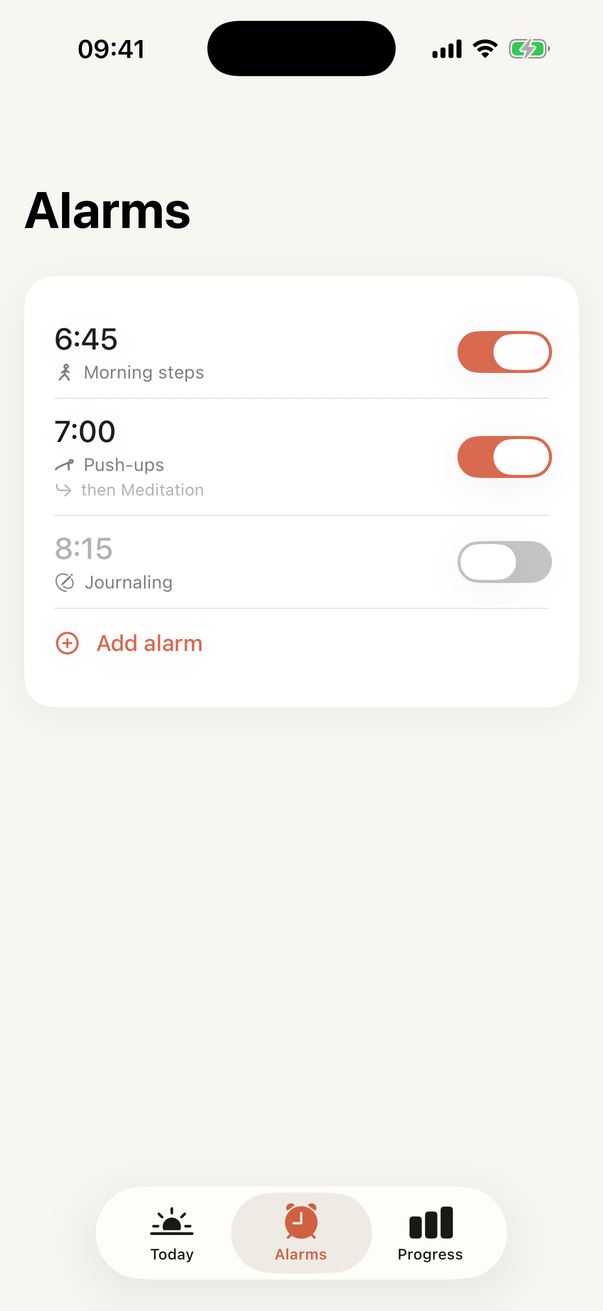
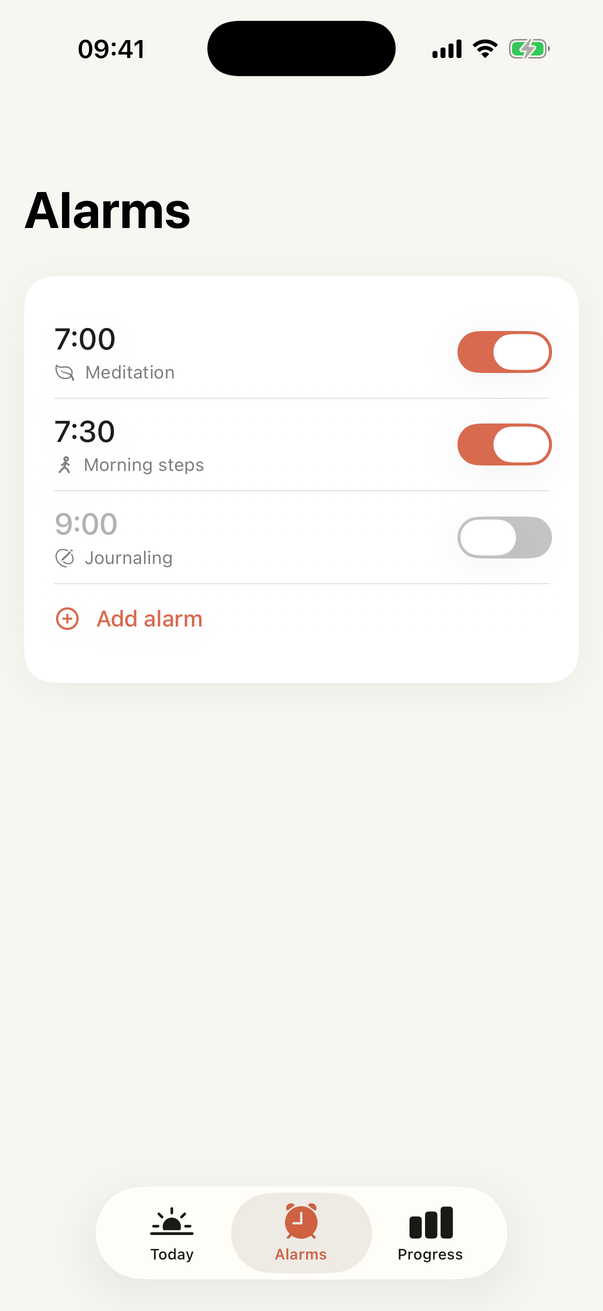
Make the app the hero, and set the site in the serif
The home page led with a photograph of a man doing press-ups that
was AI generated: wrong hands, waxy face, warped floorboards. It was
the largest paint on the page and the first thing anyone judging the
app saw, on a product whose entire proposition is that it checks you
really did the thing. It is gone, along with the push-ups screenshot
that showed the same man inside the app's camera view.

Nothing replaces it. The app is the better hero, which is what the
new store screenshots demonstrated.

Headlines move to New York, the serif the app already uses for its
daily line, and the paper gets a light source instead of one flat
fill. The home copy now leads with the morning it buys you rather
than the threat.

Today, Alarms and Progress are recaptured from the current build, so
the site stops advertising a version that no longer exists.

Changed region(s): [[0.0896, 0.2441, 0.3284, 0.5187], [0.7463, 0.3051, 0.9254, 0.4577]]

diff --git a/site.css b/site.css
@@ -12,12 +12,20 @@
     --on-clay: #FFFFFF;
   }
 
+  /* Headlines are set in New York, the serif the app uses for its daily
+     line. Bold centred sans is what every other productivity app looks
+     like; the serif is the fastest way to stop looking generated. */
+  :root { --serif: "New York", "Iowan Old Style", Palatino, "Palatino Linotype", Georgia, serif; }
+
   * { margin: 0; padding: 0; box-sizing: border-box; }
   html { scroll-behavior: smooth; color-scheme: light; }
   @media (prefers-reduced-motion: reduce) { html { scroll-behavior: auto; } * { transition: none !important; animation: none !important; } }
   body {
     font-family: -apple-system, BlinkMacSystemFont, "SF Pro Text", "Segoe UI", Roboto, Helvetica, Arial, sans-serif;
-    background: var(--paper); color: var(--ink);
+    background:
+      radial-gradient(1100px 760px at 86% -6%, #FBE9DF 0%, rgba(251,233,223,0) 62%),
+      linear-gradient(176deg, #FDFBF7 0%, var(--paper) 46%, #F1ECE3 100%);
+    background-attachment: fixed; color: var(--ink);
     -webkit-font-smoothing: antialiased; line-height: 1.55; overflow-x: hidden;
   }
   img { max-width: 100%; height: auto; display: block; }
@@ -27,9 +35,13 @@
   .wrap { max-width: 1080px; margin: 0 auto; padding: 0 24px; }
   .prose { max-width: 640px; }
   .centre { text-align: center; margin-inline: auto; }
-  h1, h2, h3 { letter-spacing: -.02em; line-height: 1.08; text-wrap: balance; }
-  h2 { font-size: clamp(30px, 4.4vw, 42px); font-weight: 750; }
+  h1, h2 { font-family: var(--serif); font-weight: 500; letter-spacing: -.022em;
+           line-height: 1.06; text-wrap: balance; }
+  h3 { letter-spacing: -.02em; line-height: 1.12; text-wrap: balance; }
+  h2 { font-size: clamp(31px, 4.6vw, 45px); }
   h3 { font-size: 19px; font-weight: 700; }
+  /* The accent lands on one phrase per headline, never two. */
+  h1 em, h2 em { font-style: normal; color: var(--clay); }
   p { color: var(--ink-2); }
   .lede { font-size: clamp(17px, 2.1vw, 19.5px); }
   .eyebrow {
@@ -72,15 +84,13 @@
     background: radial-gradient(closest-side, rgba(201, 97, 61, .16), transparent 70%); pointer-events: none;
   }
   .hero-grid { display: grid; grid-template-columns: 1.05fr .95fr; gap: 56px; align-items: center; position: relative; }
-  h1 { font-size: clamp(42px, 6.6vw, 72px); font-weight: 780; letter-spacing: -.03em; line-height: 1.0; }
+  h1 { font-size: clamp(42px, 6.6vw, 72px); font-weight: 500; letter-spacing: -.028em; line-height: 1.03; }
   h1 em { font-style: normal; color: var(--clay); }
   .hero .lede { margin-top: 22px; max-width: 500px; }
   .ctas { display: flex; flex-wrap: wrap; gap: 12px; margin-top: 30px; }
   .terms-line { margin-top: 18px; font-size: 13.5px; color: var(--ink-3); }
-  .hero-art { position: relative; width: min(440px, 100%); margin-left: auto; padding: 0 0 36px 44px; }
-  .hero-art .photo { border-radius: 30px; overflow: hidden; aspect-ratio: 4 / 5; box-shadow: 0 20px 50px -20px rgba(28,27,25,.3); }
-  .hero-art .photo img { width: 100%; height: 100%; object-fit: cover; }
-  .hero-art .phone { position: absolute; left: 0; bottom: 0; width: 44%; }
+  .hero-art { position: relative; width: min(360px, 100%); margin-left: auto; }
+  .hero-art .phone { width: 100%; }
   @media (max-width: 860px) {
     .hero { padding-top: 44px; }
     .hero-grid { grid-template-columns: 1fr; text-align: center; gap: 40px; }

diff --git a/index.html b/index.html
@@ -173,8 +173,8 @@
   <div class="wrap hero-grid">
     <div>
       <div class="eyebrow">Out now on the App Store</div>
-      <h1>Wake up and <em>actually stay up.</em></h1>
-      <p class="lede">First Step is an alarm that won't stop until you've taken the first step of the day: twenty push-ups, a walk, ten minutes of quiet, a page of your journal. Then it stops, and the day is yours.</p>
+      <h1>Take the <em>first step</em>.<br>Every morning.</h1>
+      <p class="lede">First Step is an iPhone alarm that helps you start the day with one small thing: ten minutes of quiet, a walk, twenty push-ups, a page of your journal. It doesn't stop until you've begun, and then the day is yours.</p>
       <div class="ctas">
         <a class="pill" href="https://apps.apple.com/gb/app/first-step-no-snooze-alarm/id6789765925"><svg viewBox="0 0 24 24" width="17" height="17" fill="currentColor" aria-hidden="true" style="flex:0 0 auto"><path d="M16.4 12.7c0-2 1.6-2.9 1.7-3-0.9-1.4-2.4-1.5-2.9-1.6-1.2-0.1-2.4 0.7-3 0.7-0.6 0-1.6-0.7-2.6-0.7-1.3 0-2.6 0.8-3.2 2-1.4 2.4-0.4 6 1 8 0.7 1 1.5 2 2.5 2 1 0 1.4-0.6 2.6-0.6 1.2 0 1.5 0.6 2.6 0.6 1.1 0 1.8-1 2.4-1.9 0.8-1.1 1.1-2.2 1.1-2.2-0.1 0-2.2-0.8-2.2-3.3zM14.5 6.3c0.5-0.7 0.9-1.6 0.8-2.6-0.8 0-1.8 0.5-2.4 1.2-0.5 0.6-1 1.6-0.8 2.5 0.9 0.1 1.8-0.4 2.4-1.1z"/></svg> Download on the App Store</a>
         <a class="pill quiet" href="#how">See how it works</a>
@@ -182,8 +182,7 @@
       <p class="terms-line">One week free, then £5.99 a month or £39.99 a year. iPhone, iOS 26.</p>
     </div>
     <div class="hero-art">
-      <div class="photo"><img src="img/hero-photo.jpg" width="960" height="1200" alt="A man doing push-ups on a bedroom floor in morning light, bed unmade behind him" fetchpriority="high"></div>
-      <div class="phone"><div class="frame"><img src="img/today.png" width="603" height="1311" alt="The First Step Today screen: a nine-day streak, tomorrow's 7:00 alarm with push-ups then meditation" fetchpriority="high"></div></div>
+      <div class="phone"><div class="frame"><img src="img/today.png" width="603" height="1311" alt="The First Step Today screen: a nine-day streak and tomorrow's 7:00 alarm, set to meditation" fetchpriority="high"></div></div>
     </div>
   </div>
 </header>

diff --git a/alarm-that-makes-you-exercise.html b/alarm-that-makes-you-exercise.html
@@ -59,7 +59,7 @@
     "operatingSystem": "iOS 26",
     "applicationCategory": "LifestyleApplication"
    },
-   "dateModified": "2026-09-29",
+   "dateModified": "2026-10-06",
    "datePublished": "2026-09-10"
   },
   {
@@ -179,7 +179,7 @@
     <h2>How First Step verifies it</h2>
     <p>For push-ups and squats, First Step uses the front camera as a movement sensor. Prop the phone against a wall or a stack of books so it can see you, and start. The countdown runs only while the camera can see you moving. Pause, and the numbers pause with you.</p>
     <figure>
-      <div class="phone"><div class="frame"><img src="img/pushups.png" width="603" height="1311" alt="A push-ups session in First Step: the countdown at 24 seconds and a live camera view of someone mid push-up" loading="lazy"></div></div>
+      <div class="phone"><div class="frame"><img src="img/steps.png" width="603" height="1311" alt="A morning steps session in First Step: 340 of 500 steps counted, with the phone in a pocket" loading="lazy"></div></div>
       <figcaption>The live view is on screen the whole time, so you always know what the camera can see.</figcaption>
     </figure>
     <p>It is deliberately simple. Each frame is shrunk to a coarse grid of brightness values, compared with the previous one, and thrown away. Nothing is recorded, nothing is uploaded, and there is no account or server on the other end. The app is not recognising your body or counting reps. It is checking one thing: are you in motion?</p>

diff --git a/blog/how-to-stop-procrastinating-in-the-morning.html b/blog/how-to-stop-procrastinating-in-the-morning.html
@@ -54,7 +54,7 @@
    "description": "Mornings are the easiest time to put things off and the research explains why: the task feels worst, the reward feels furthest, and the phone is closest. Five fixes from the procrastination and planning literature, starting with the two-minute rule.",
    "image": "https://firststepalarm.com/img/og/how-to-stop-procrastinating-in-the-morning.png",
    "datePublished": "2026-09-10",
-   "dateModified": "2026-09-29",
+   "dateModified": "2026-10-06",
    "author": {
     "@id": "https://firststepalarm.com/#callum"
    },
@@ -137,7 +137,7 @@
 <div class="wrap">
   <a class="home" href="index.html">&larr; The Morning Journal</a>
   <h1>How to stop procrastinating in the morning: start before you feel ready</h1>
-  <p class="meta">By <a href="index.html#author">Callum Matthews</a> · <time datetime="2026-09-10">10 September 2026</time> · Updated 29 September 2026 · 6 min read</p>
+  <p class="meta">By <a href="index.html#author">Callum Matthews</a> · <time datetime="2026-09-10">10 September 2026</time> · Updated 6 October 2026 · 6 min read</p>
 
   <p class="lede">The snooze button is procrastination in its purest form: a small, pleasant delay of a thing you have already decided to do. Most of what follows the alarm has the same shape. The phone before the shower, the shower before the task, the task after one more coffee. The morning is where procrastination lives, and the research on why is unusually clear.</p>
 

diff --git a/blog/sleep-inertia.html b/blog/sleep-inertia.html
@@ -54,7 +54,7 @@
    "description": "Sleep inertia is the grogginess after waking that impairs memory, reaction time and judgement. How long it lasts, what makes it worse, what the research says actually shortens it, and why it is the real reason you snooze.",
    "image": "https://firststepalarm.com/img/og/sleep-inertia.png",
    "datePublished": "2026-09-10",
-   "dateModified": "2026-09-29",
+   "dateModified": "2026-10-06",
    "author": {
     "@id": "https://firststepalarm.com/#callum"
    },
@@ -137,7 +137,7 @@
 <div class="wrap">
   <a class="home" href="index.html">&larr; The Morning Journal</a>
   <h1>Sleep inertia: why the first ten minutes of the day feel impossible</h1>
-  <p class="meta">By <a href="index.html#author">Callum Matthews</a> · <time datetime="2026-09-10">10 September 2026</time> · Updated 29 September 2026 · 6 min read</p>
+  <p class="meta">By <a href="index.html#author">Callum Matthews</a> · <time datetime="2026-09-10">10 September 2026</time> · Updated 6 October 2026 · 6 min read</p>
 
   <p class="lede">There is a name for the state you are in when you reach for the snooze button. It is not laziness and it is not a character flaw. It is a measurable, well-studied period of impaired brain function called <strong>sleep inertia</strong>, and once you know its shape, most of the standard advice about mornings starts to look like it was written by someone who had never experienced it.</p>
 

diff --git a/blog/new-year-habits-that-last.html b/blog/new-year-habits-that-last.html
@@ -54,7 +54,7 @@
    "description": "About half of New Year's resolutions survive the year, and the ones that do share a shape. The fresh start effect, why approach goals beat avoidance goals, the 66-day rule, and how to build a January habit that outlives February.",
    "image": "https://firststepalarm.com/img/og/new-year-habits-that-last.png",
    "datePublished": "2026-09-10",
-   "dateModified": "2026-09-29",
+   "dateModified": "2026-10-06",
    "author": {
     "@id": "https://firststepalarm.com/#callum"
    },
@@ -137,7 +137,7 @@
 <div class="wrap">
   <a class="home" href="index.html">&larr; The Morning Journal</a>
   <h1>New Year habits that last: how to start in January and still be going in March</h1>
-  <p class="meta">By <a href="index.html#author">Callum Matthews</a> · <time datetime="2026-09-10">10 September 2026</time> · Updated 29 September 2026 · 5 min read</p>
+  <p class="meta">By <a href="index.html#author">Callum Matthews</a> · <time datetime="2026-09-10">10 September 2026</time> · Updated 6 October 2026 · 5 min read</p>
 
   <p class="lede">Every January the same two things are said: that resolutions are pointless because everyone breaks them by February, and that this year is different. The research is kinder than the first claim and more useful than the second. Resolutions work better than their reputation, and the ones that last share a shape you can copy.</p>
 

diff --git a/blog/how-to-wake-up-earlier.html b/blog/how-to-wake-up-earlier.html
@@ -54,7 +54,7 @@
    "description": "Moving your alarm an hour earlier overnight is why it feels terrible. A gradual shift built from the research on body clocks, light and sleep inertia: fifteen minutes at a time, bedtime first, light on waking, weekends held, one mission at the alarm.",
    "image": "https://firststepalarm.com/img/og/how-to-wake-up-earlier.png",
    "datePublished": "2026-09-10",
-   "dateModified": "2026-09-29",
+   "dateModified": "2026-10-06",
    "author": {
     "@id": "https://firststepalarm.com/#callum"
    },
@@ -137,7 +137,7 @@
 <div class="wrap">
   <a class="home" href="index.html">&larr; The Morning Journal</a>
   <h1>How to wake up earlier without feeling terrible: a two-week shift</h1>
-  <p class="meta">By <a href="index.html#author">Callum Matthews</a> · <time datetime="2026-09-10">10 September 2026</time> · Updated 29 September 2026 · 5 min read</p>
+  <p class="meta">By <a href="index.html#author">Callum Matthews</a> · <time datetime="2026-09-10">10 September 2026</time> · Updated 6 October 2026 · 5 min read</p>
 
   <p class="lede">The usual attempt goes like this. Sunday night, alarm moved from 7:30 to 6:00. Monday, terrible. Tuesday, worse. Wednesday, snoozed to 7:15 and the whole thing declared impossible. The plan failed for a reason the research explains precisely: the alarm moved ninety minutes and the body clock moved none.</p>
 

diff --git a/blog/how-to-be-more-productive-in-the-morning.html b/blog/how-to-be-more-productive-in-the-morning.html
@@ -54,7 +54,7 @@
    "description": "Not a list of 27 tips. The research on sleep inertia, time-of-day thinking, planning the night before and morning light, turned into a first ninety minutes you can keep. Includes what to do first and what to leave until later.",
    "image": "https://firststepalarm.com/img/og/how-to-be-more-productive-in-the-morning.png",
    "datePublished": "2026-09-10",
-   "dateModified": "2026-09-29",
+   "dateModified": "2026-10-06",
    "author": {
     "@id": "https://firststepalarm.com/#callum"
    },
@@ -137,7 +137,7 @@
 <div class="wrap">
   <a class="home" href="index.html">&larr; The Morning Journal</a>
   <h1>How to be more productive in the morning: what the research actually supports</h1>
-  <p class="meta">By <a href="index.html#author">Callum Matthews</a> · <time datetime="2026-09-10">10 September 2026</time> · Updated 29 September 2026 · 6 min read</p>
+  <p class="meta">By <a href="index.html#author">Callum Matthews</a> · <time datetime="2026-09-10">10 September 2026</time> · Updated 6 October 2026 · 6 min read</p>
 
   <p class="lede">Most morning productivity advice is a list: twenty-seven things successful people do before 8am. This is not that. It is what the research on sleep, attention and planning actually supports, arranged into a first ninety minutes that a normal person with a job can keep.</p>
 

diff --git a/blog/does-the-5am-club-work.html b/blog/does-the-5am-club-work.html
@@ -54,7 +54,7 @@
    "description": "The 5am Club promises a better life from an earlier alarm. What holds up (the first hour, movement, consistency), what does not (the hour itself), and how to test early rising without wrecking your sleep.",
    "image": "https://firststepalarm.com/img/og/does-the-5am-club-work.png",
    "datePublished": "2026-09-10",
-   "dateModified": "2026-09-29",
+   "dateModified": "2026-10-06",
    "author": {
     "@id": "https://firststepalarm.com/#callum"
    },
@@ -137,7 +137,7 @@
 <div class="wrap">
   <a class="home" href="index.html">&larr; The Morning Journal</a>
   <h1>Does the 5am club work? What the science says about early rising</h1>
-  <p class="meta">By <a href="index.html#author">Callum Matthews</a> · <time datetime="2026-09-10">10 September 2026</time> · Updated 29 September 2026 · 5 min read</p>
+  <p class="meta">By <a href="index.html#author">Callum Matthews</a> · <time datetime="2026-09-10">10 September 2026</time> · Updated 6 October 2026 · 5 min read</p>
 
   <p class="lede">Robin Sharma's <em>The 5AM Club</em> has sold millions of copies on a simple promise: wake at five, spend the first hour on twenty minutes of movement, twenty of reflection and twenty of learning, and the rest of your life improves [1]. It is a good story. Some of it is also good science. The question is which parts.</p>
 

diff --git a/blog/how-to-wake-up-without-hitting-snooze.html b/blog/how-to-wake-up-without-hitting-snooze.html
@@ -54,7 +54,7 @@
    "description": "Seven steps, in order, from the research on sleep inertia, habit formation and body clocks. Decide the night before, fix the wake time, get light, move first, remove the negotiation, and never miss twice.",
    "image": "https://firststepalarm.com/img/og/how-to-wake-up-without-hitting-snooze.png",
    "datePublished": "2026-09-10",
-   "dateModified": "2026-09-29",
+   "dateModified": "2026-10-06",
    "author": {
     "@id": "https://firststepalarm.com/#callum"
    },
@@ -137,7 +137,7 @@
 <div class="wrap">
   <a class="home" href="index.html">&larr; The Morning Journal</a>
   <h1>How to wake up without hitting snooze: a method that survives bad mornings</h1>
-  <p class="meta">By <a href="index.html#author">Callum Matthews</a> · <time datetime="2026-09-10">10 September 2026</time> · Updated 29 September 2026 · 5 min read</p>
+  <p class="meta">By <a href="index.html#author">Callum Matthews</a> · <time datetime="2026-09-10">10 September 2026</time> · Updated 6 October 2026 · 5 min read</p>
 
   <p class="lede">Everything below comes from the same starting point: the decision to get up cannot be made after the alarm, because the person making it is in the worst-judgement window of their day. So every step either moves the decision earlier or removes it. None of them ask you to be stronger at 6:30am.</p>
 

diff --git a/_build/content/p1-exercise.html b/_build/content/p1-exercise.html
@@ -6,7 +6,7 @@
     <h2>How First Step verifies it</h2>
     <p>For push-ups and squats, First Step uses the front camera as a movement sensor. Prop the phone against a wall or a stack of books so it can see you, and start. The countdown runs only while the camera can see you moving. Pause, and the numbers pause with you.</p>
     <figure>
-      <div class="phone"><div class="frame"><img src="img/pushups.png" width="603" height="1311" alt="A push-ups session in First Step: the countdown at 24 seconds and a live camera view of someone mid push-up" loading="lazy"></div></div>
+      <div class="phone"><div class="frame"><img src="img/steps.png" width="603" height="1311" alt="A morning steps session in First Step: 340 of 500 steps counted, with the phone in a pocket" loading="lazy"></div></div>
       <figcaption>The live view is on screen the whole time, so you always know what the camera can see.</figcaption>
     </figure>
     <p>It is deliberately simple. Each frame is shrunk to a coarse grid of brightness values, compared with the previous one, and thrown away. Nothing is recorded, nothing is uploaded, and there is no account or server on the other end. The app is not recognising your body or counting reps. It is checking one thing: are you in motion?</p>

diff --git a/blog/morning-vs-evening-workout.html b/blog/morning-vs-evening-workout.html
@@ -54,7 +54,7 @@
    "description": "Evening workouts are stronger. Morning workouts happen more often. The research on exercise timing, habit formation and why consistency beats the clock, and how to pick the time you will actually keep.",
    "image": "https://firststepalarm.com/img/og/morning-vs-evening-workout.png",
    "datePublished": "2026-09-10",
-   "dateModified": "2026-09-29",
+   "dateModified": "2026-10-06",
    "author": {
     "@id": "https://firststepalarm.com/#callum"
    },
@@ -137,7 +137,7 @@
 <div class="wrap">
   <a class="home" href="index.html">&larr; The Morning Journal</a>
   <h1>Morning vs evening workouts: which one actually sticks?</h1>
-  <p class="meta">By <a href="index.html#author">Callum Matthews</a> · <time datetime="2026-09-10">10 September 2026</time> · Updated 29 September 2026 · 5 min read</p>
+  <p class="meta">By <a href="index.html#author">Callum Matthews</a> · <time datetime="2026-09-10">10 September 2026</time> · Updated 6 October 2026 · 5 min read</p>
 
   <p class="lede">Ask when you should work out and you will get two confident, contradictory answers. The evening people have the physiology on their side. The morning people have the calendar. Both are right, about different questions.</p>
 
